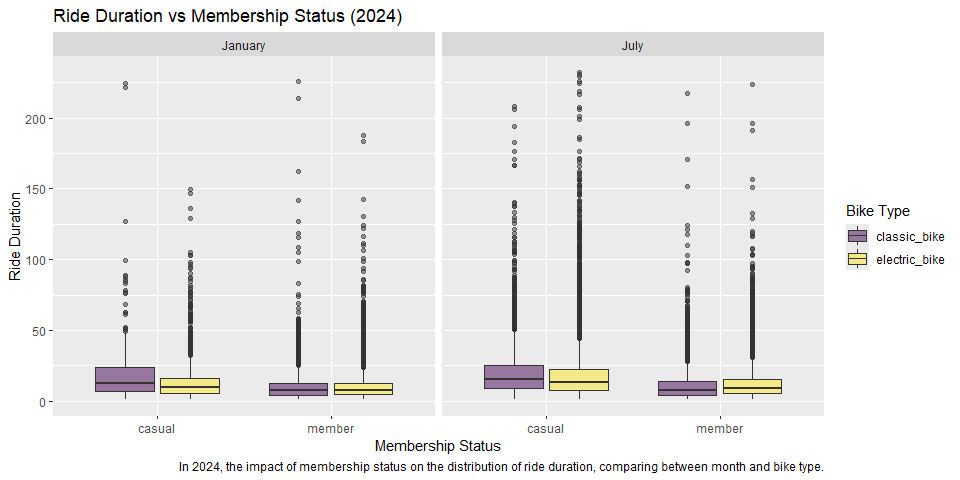
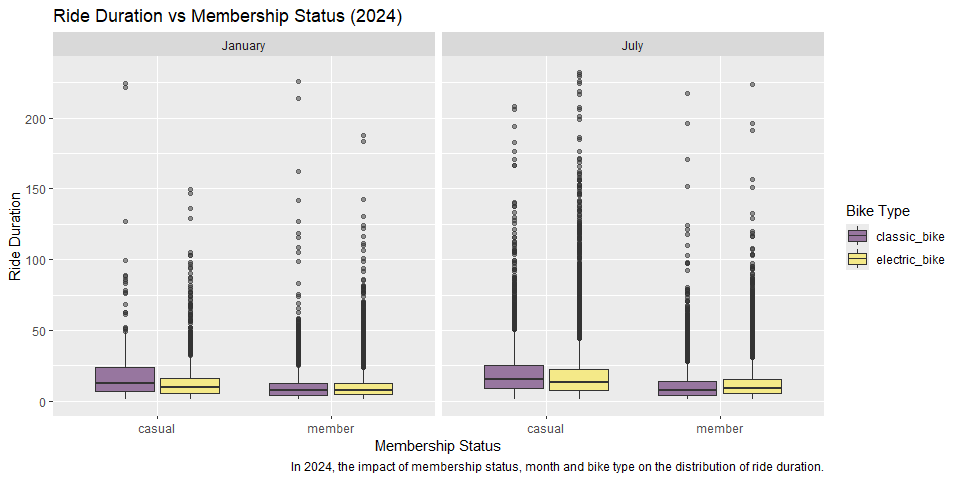
modify the caption of plots

Changed region(s): [[0.1875, 0.9375, 0.875, 1.0]]

diff --git a/p8105_hw3_jz3902.md b/p8105_hw3_jz3902.md
@@ -298,7 +298,7 @@ mims_df %>%
     x = "Age",
     y = "Total Activity",
     color = "Sex",
-    caption = "The total accelerometer activities over the day across different ages, comparing between genders and education levels.") 
+    caption = "The total accelerometer activities over the day across different ages, genders and education levels.") 
 ```
 
 <img src="p8105_hw3_jz3902_files/figure-gfm/total_activ-1.png" width="90%" />
@@ -516,7 +516,7 @@ result_citi %>%
     x = "Weekdays",
     y = "Median Ride Duration",
     color = "Month",
-    caption = "The effects of weekdays on median ride duration, comparing between different months and years.") +
+    caption = "The effects of weekdays, months and years on median ride duration.") +
   theme_minimal() +
   theme(axis.text.x = element_text(size = 8,
                                    angle = 45, 
@@ -550,7 +550,7 @@ result_citi %>%
     x = "Membership Status",
     y = "Ride Duration",
     fill = "Bike Type",
-    caption = "In 2024, the impact of membership status on the distribution of ride duration, comparing between month and bike type.")
+    caption = "In 2024, the impact of membership status, month and bike type on the distribution of ride duration.")
 ```
 
 <img src="p8105_hw3_jz3902_files/figure-gfm/duration_2024-1.png" width="90%" />
